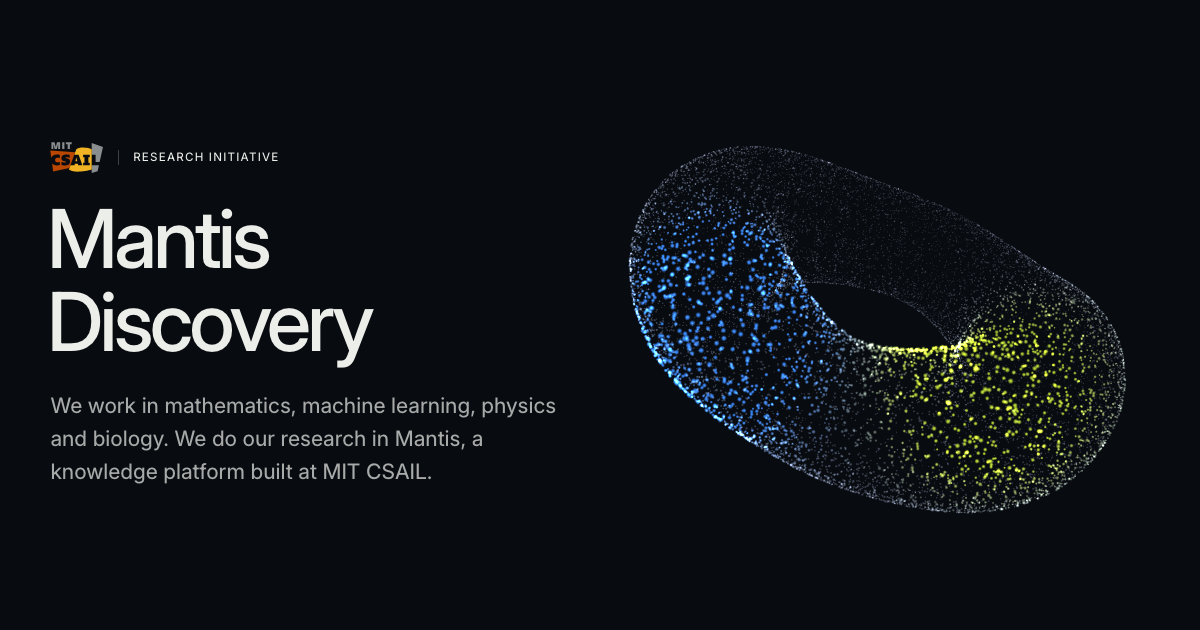
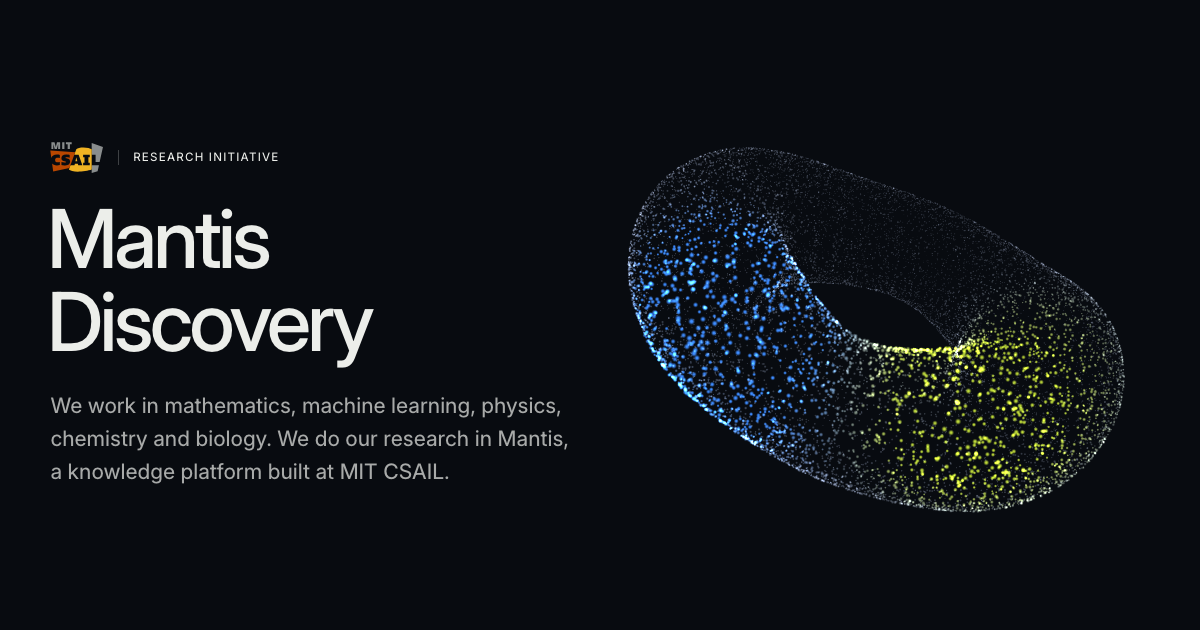
Add chemistry to the lab's fields
The hero, the Lab page's researcher line, the site description and the
JSON-LD now list mathematics, machine learning, physics, chemistry and
biology. The link preview image is re-shot from the new hero.

diff --git a/website/src/data/site.ts b/website/src/data/site.ts
@@ -79,7 +79,7 @@ export const site = {
   // GitHub Pages address, or a custom domain once one is set up.
   url: process.env.NEXT_PUBLIC_SITE_URL ?? 'https://kellislab.github.io/MantisDiscovery',
   description:
-    'Mantis Discovery is a research group at MIT CSAIL. We use AI and the Mantis platform to work on open problems in mathematics, machine learning, physics and biology.',
+    'Mantis Discovery is a research group at MIT CSAIL. We use AI and the Mantis platform to work on open problems in mathematics, machine learning, physics, chemistry and biology.',
   email: 'pranavak@mit.edu',
   license: 'CC BY 4.0',
 };
@@ -99,7 +99,7 @@ export const nav = [
 export const home = {
   eyebrow: 'Research initiative',
   title: 'Mantis Discovery',
-  lede: 'We work in mathematics, machine learning, physics and biology. We do our research in Mantis, a knowledge platform built at MIT CSAIL.',
+  lede: 'We work in mathematics, machine learning, physics, chemistry and biology. We do our research in Mantis, a knowledge platform built at MIT CSAIL.',
   actions: [
     { href: '/research/', label: 'Read the papers' },
     { href: '/method/', label: 'How we work' },
@@ -255,7 +255,7 @@ export const lab = {
   lede:
     'Mantis Discovery is a research group within Mantis, at MIT CSAIL. We use AI throughout our research and publish our results as papers on Zenodo.',
   researchers: '25+',
-  researchersText: 'Researchers in mathematics, machine learning, physics and biology work with us. They include PhD students and olympiad medalists.',
+  researchersText: 'Researchers in mathematics, machine learning, physics, chemistry and biology work with us. They include PhD students and olympiad medalists.',
   joinTitle: 'Joining the lab',
   joinText:
     'If you’re a student who wants to do serious research with AI, or a researcher who’d like to try this in your own field, write to us and tell us what you work on.',

diff --git a/website/src/app/layout.tsx b/website/src/app/layout.tsx
@@ -33,7 +33,7 @@ const jsonLd = {
   url: site.url,
   email: `mailto:${site.email}`,
   description: site.description,
-  knowsAbout: ['Mathematics', 'Machine learning', 'Physics', 'Biology', 'AI for science'],
+  knowsAbout: ['Mathematics', 'Machine learning', 'Physics', 'Chemistry', 'Biology', 'AI for science'],
   subjectOf: papers.map((p) => ({ '@type': 'ScholarlyArticle', name: p.title, url: `https://doi.org/${p.doi}` })),
 };
 

diff --git a/website/DESIGN.md b/website/DESIGN.md
@@ -181,10 +181,11 @@ premium look than the first version, so the system is set like a printed researc
   re-voicing the film.
 - The human role stays implicit: never "human-led", never "AI alone". The lab is not described as a student
   group (it includes PhD students). Say "Research" and "papers", not "preprints".
-- The hero is the lab's name and two plain sentences: "We work in mathematics, machine learning, physics
-  and biology. We do our research in Mantis, a knowledge platform built at MIT CSAIL." No slogan, and the
-  site never says the lab automates discovery. The Open Graph image (`public/og.png`) is a capture of the
-  hero, so re-shoot it when the hero changes.
+- The hero is the lab's name and two plain sentences: "We work in mathematics, machine learning, physics,
+  chemistry and biology. We do our research in Mantis, a knowledge platform built at MIT CSAIL." No
+  slogan, and the site never says the lab automates discovery. The Open Graph image (`public/og.png`) is a
+  capture of the hero, so re-shoot it when the hero changes. Chemistry joined the list on 29 Oct, when
+  Shrikrishna Ramesh became director of chemistry and biology.
 - No labels, captions or claim card on the hero torus.
 - Four papers, not fifteen: two in mathematics (opaque sets, clique minors), one in physics (the zonal
   gyrokinetic model) and one in machine learning (locality in elliptic solvers). The other Zenodo records
@@ -204,7 +205,7 @@ premium look than the first version, so the system is set like a printed researc
 - Figure captions say what the beat shows in one or two plain sentences, with the paper's numbers. A
   figure only claims what the paper or its records say; schematic parts are named as such in the code.
 - Team: Pranava Kumar is founder and lead, then Sushaan Kandukoori, director of mathematics and machine
-  learning, then Shrikrishna Ramesh, director of chemistry and biology (owner's order and title, 30 Oct), with titles shown
+  learning, then Shrikrishna Ramesh, director of chemistry and biology (owner's order and title, 29 Oct), with titles shown
   under their names. Then the owner's
   list plus everyone who answered the lab's sign-up form. Bios come only from each
   person's research answer, with no contact details.
